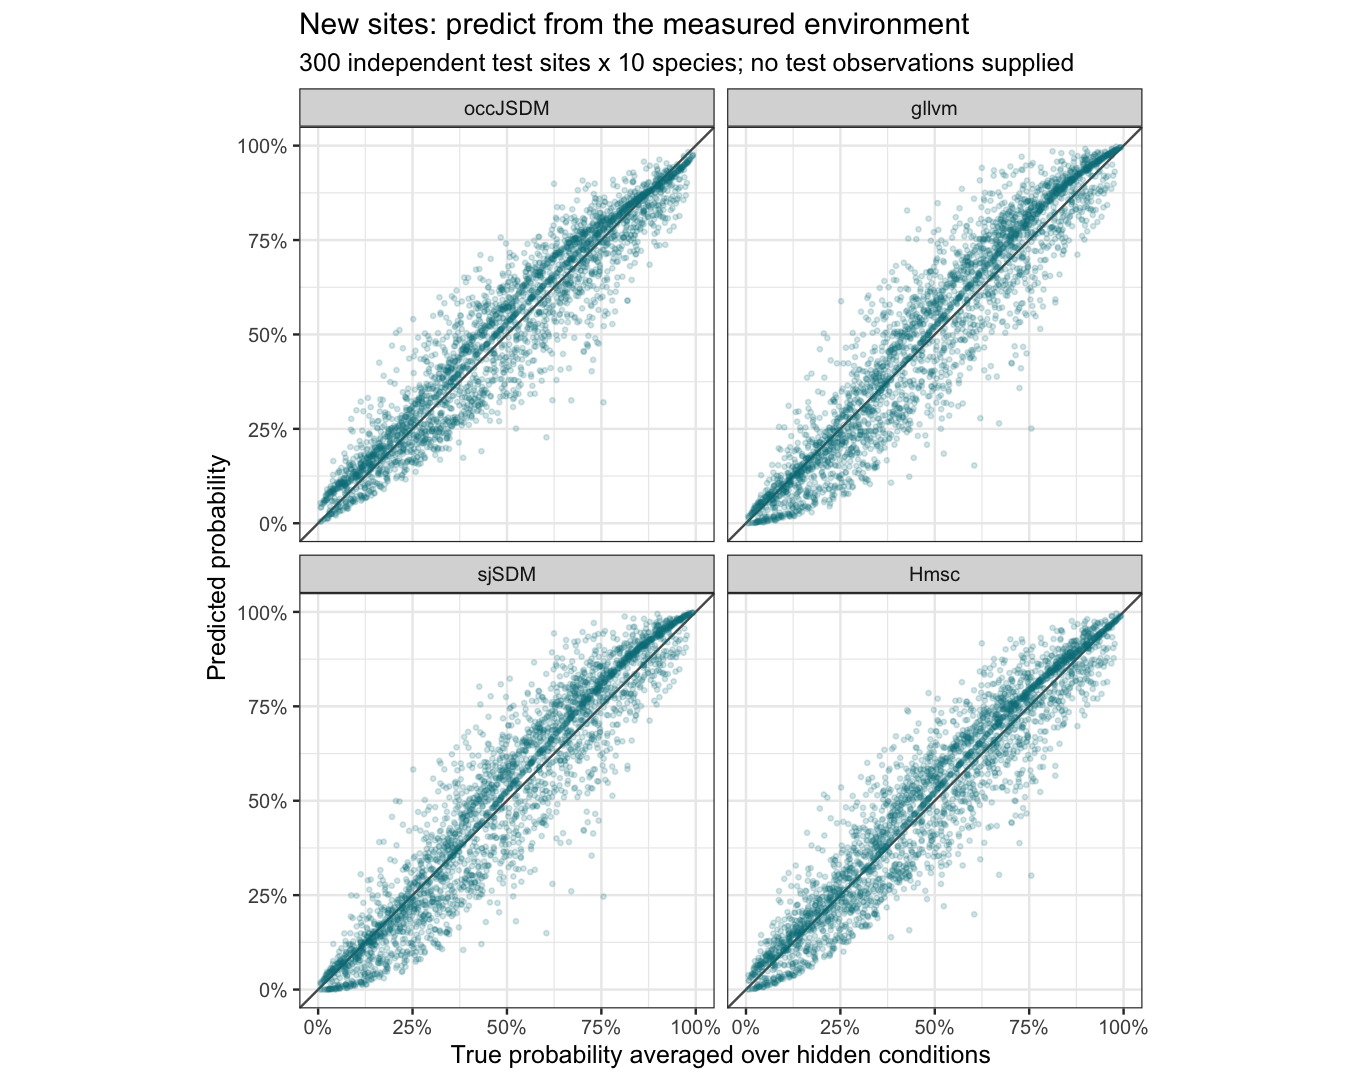
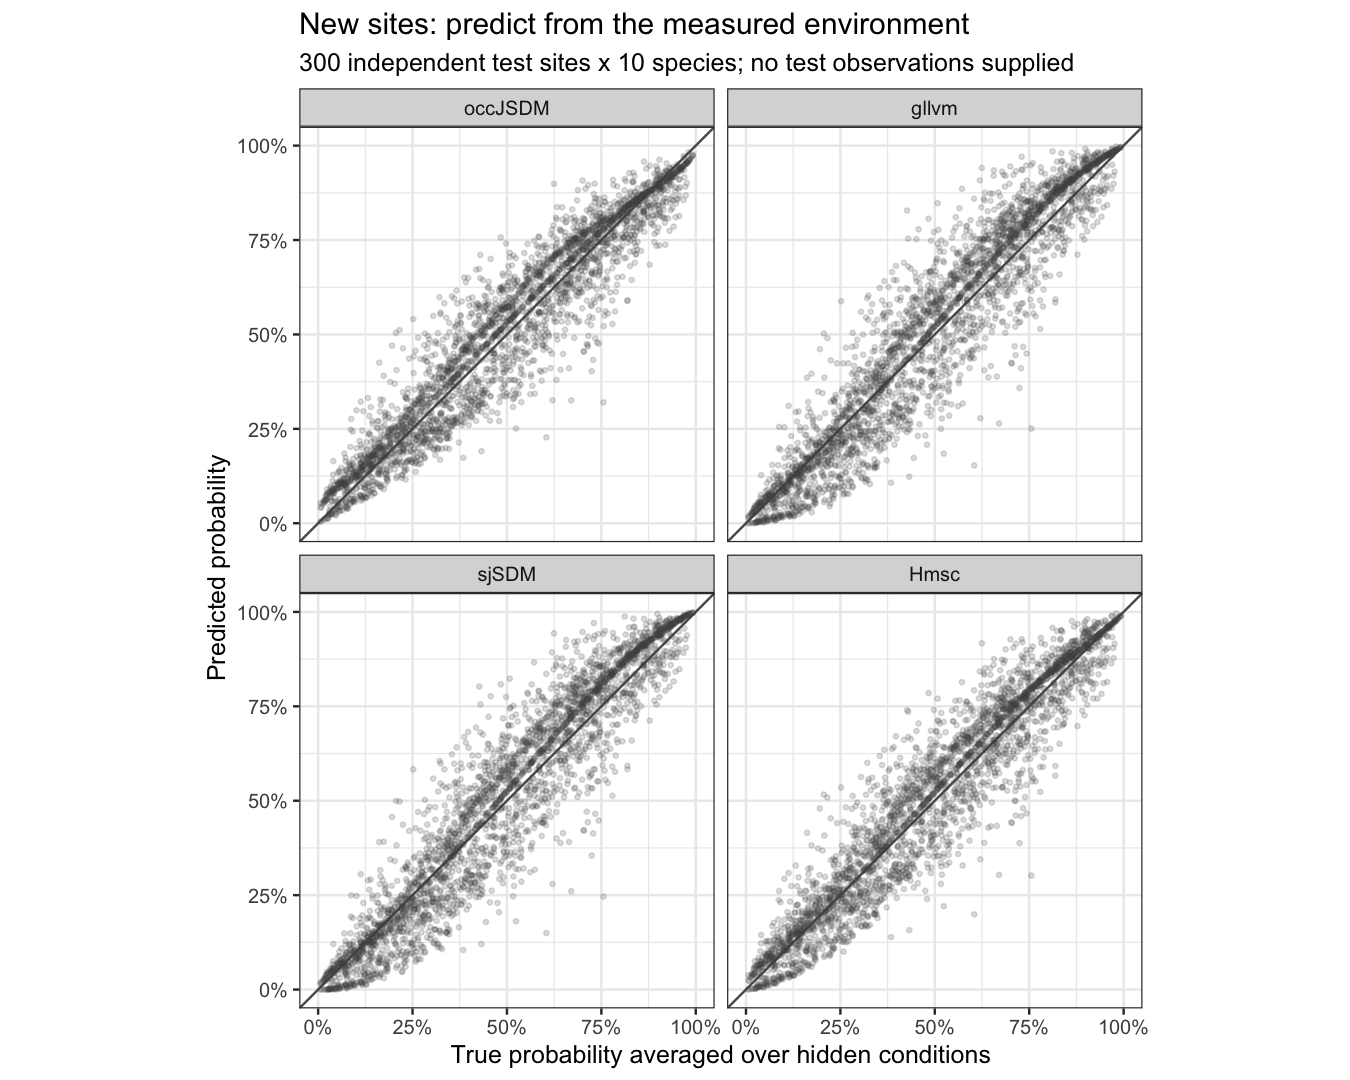
Fix the Task 3 review minors and check that fitting code never calls a plot-only function
Lessons 2 and 6 call #D55E00 "red-orange", as Lesson 3 does; Lesson 6's
trait-figure caption now takes two lines so it is not clipped. Lesson 5
gives gllvm a dot-dash line so no package line resembles the dashed
truth, and draws its two probability scatters in grey30 instead of the
old occJSDM teal. Lesson 6's trait figure lists occJSDM before gllvm.

lesson_source_check() now also fails when any top-level code in R/
outside the allow-listed definitions names an allow-listed function, as
a symbol or a string. Current R/ passes; a new test case covers it.

diff --git a/vignettes/occJSDM-lesson-2.md b/vignettes/occJSDM-lesson-2.md
@@ -617,8 +617,8 @@ ggplot(map_errors, aes(x = east, y = north, colour = error_pp)) +
 ```
 
 <figure>
-<img src="occJSDM-lesson-2_files/figure-gfm/occupancy-error-maps-1.png" alt="Orange points are overestimates and blue points are underestimates. Pale points have small errors. These are errors in the underlying probability, not wrong classifications of the actual 0/1 occupancy state." />
-<figcaption aria-hidden="true">Orange points are overestimates and blue points are underestimates. Pale points have small errors. These are errors in the underlying probability, not wrong classifications of the actual 0/1 occupancy state.</figcaption>
+<img src="occJSDM-lesson-2_files/figure-gfm/occupancy-error-maps-1.png" alt="Red-orange points are overestimates and blue points are underestimates. Pale points have small errors. These are errors in the underlying probability, not wrong classifications of the actual 0/1 occupancy state." />
+<figcaption aria-hidden="true">Red-orange points are overestimates and blue points are underestimates. Pale points have small errors. These are errors in the underlying probability, not wrong classifications of the actual 0/1 occupancy state.</figcaption>
 </figure>
 
 OTU_1 is common, and 81% of its sites are blue: the pull towards the middle again, underestimating its high probabilities. Neither map shows errors gathered in one part of the survey area; large overestimates and underestimates sit next to each other. That is what this simulation should produce, because its environmental values and hidden site factors were generated independently of coordinates. Smoothing these points would invent a surface that this simulation never generated. The spatial lesson, [Lesson 7](occJSDM-lesson-7.md), introduces a smooth habitat gradient and spatial structure.
@@ -667,8 +667,8 @@ ggplot(detection_rates, aes(x = estimate, y = species)) +
 ```
 
 <figure>
-<img src="occJSDM-lesson-2_files/figure-gfm/detection-rate-recovery-1.png" alt="Black crosses are the true rates for positive read results. Orange estimates and 95% credible intervals come from the default two-stage fit. Horizontal scales differ so that small false-positive rates are readable. Laboratory rates differ by primer; field-stage contamination has one rate per species." />
-<figcaption aria-hidden="true">Black crosses are the true rates for positive read results. Orange estimates and 95% credible intervals come from the default two-stage fit. Horizontal scales differ so that small false-positive rates are readable. Laboratory rates differ by primer; field-stage contamination has one rate per species.</figcaption>
+<img src="occJSDM-lesson-2_files/figure-gfm/detection-rate-recovery-1.png" alt="Black crosses are the true rates for positive read results. Red-orange estimates and 95% credible intervals come from the default two-stage fit. Horizontal scales differ so that small false-positive rates are readable. Laboratory rates differ by primer; field-stage contamination has one rate per species." />
+<figcaption aria-hidden="true">Black crosses are the true rates for positive read results. Red-orange estimates and 95% credible intervals come from the default two-stage fit. Horizontal scales differ so that small false-positive rates are readable. Laboratory rates differ by primer; field-stage contamination has one rate per species.</figcaption>
 </figure>
 
 The laboratory rates are recovered well: 37 of the 40 intervals for `p` and `q` contain the true value. The intervals are comparatively narrow, none wider than 79% of its estimate, because every sample’s twelve PCRs give the model many repeated laboratory results to learn from. The field-contamination rate is harder: 9 of its 10 intervals contain the true value, but they are wide, from 87% to 329% of the estimate and reaching up to 19.4%. They are wide because field-stage contamination happens only at unoccupied sites, and a contaminated sample looks like any other sample with DNA.

diff --git a/vignettes/occJSDM-lesson-6.md b/vignettes/occJSDM-lesson-6.md
@@ -514,7 +514,7 @@ Supplying traits lowered the average error a little, by at most 0.5 percentage p
 
 Improved prediction and clear evidence of a trait relationship are different outcomes. A model can predict reasonably while remaining uncertain about why species differ. Conversely, a detectable trait relationship need not greatly improve predictions when each species already has plenty of observations.
 
-The next figure subtracts the known true trait effect from each estimate. The dashed black line therefore means **accurate estimation**, not necessarily **no trait effect**. The dotted red line means an estimated effect of zero. For the irrelevant trait, those references coincide because its true effect is zero. An interval crossing the black line includes the truth; an interval crossing the red line includes no effect. These are different questions for a trait whose generating effect is nonzero.
+The next figure subtracts the known true trait effect from each estimate. The dashed black line therefore means **accurate estimation**, not necessarily **no trait effect**. The dotted red-orange line means an estimated effect of zero. For the irrelevant trait, those references coincide because its true effect is zero. An interval crossing the black line includes the truth; an interval crossing the red-orange line includes no effect. These are different questions for a trait whose generating effect is nonzero.
 
 ``` r
 if (nrow(extension$traits) > 0) {
@@ -544,13 +544,13 @@ if (nrow(extension$traits) > 0) {
       position = position_dodge(width = 0.5)
     ) +
     facet_grid(relationship ~ design, scales = "free_y") +
-    scale_colour_manual(values = package_colours) +
-    scale_shape_manual(values = package_shapes) +
+    scale_colour_manual(values = package_colours, breaks = package_order) +
+    scale_shape_manual(values = package_shapes, breaks = package_order) +
     labs(
       x = "Independent simulated community",
       y = "Estimated trait effect minus its true value",
       colour = "Package", shape = "Package",
-      caption = "Dashed black: estimate equals truth. Dotted red: estimated effect is zero. Coefficient differences are not probability percentage points."
+      caption = "Dashed black: estimate equals truth. Dotted red-orange: estimated effect is zero.\nCoefficient differences are not probability percentage points."
     ) +
     theme_bw()
 }

diff --git a/vignettes/occJSDM-lesson-5.md b/vignettes/occJSDM-lesson-5.md
@@ -51,7 +51,7 @@ package_colours <- c(
 )
 # A second cue beside colour where packages share one panel.
 package_shapes <- c(occJSDM = 16, gllvm = 17, sjSDM = 15, Hmsc = 18)
-package_linetypes <- c(occJSDM = "solid", gllvm = "longdash", sjSDM = "dotdash", Hmsc = "dotted")
+package_linetypes <- c(occJSDM = "solid", gllvm = "dotdash", sjSDM = "twodash", Hmsc = "dotted")
 
 target_labels <- c(
   sampled_site_recovery = "Reconstruct sampled sites",
@@ -523,7 +523,7 @@ new_site_predictions <- predictions |>
 
 ggplot(new_site_predictions, aes(truth, estimate)) +
   geom_abline(slope = 1, intercept = 0, colour = "grey35") +
-  geom_point(alpha = 0.18, size = 0.8, colour = "#007A87") +
+  geom_point(alpha = 0.18, size = 0.8, colour = "grey30") +
   facet_wrap(~ package, ncol = 2,
              labeller = as_labeller(setNames(package_labels, package_order))) +
   scale_x_continuous(limits = c(0, 1), labels = scales::label_percent()) +
@@ -545,7 +545,7 @@ sampled_site_predictions <- predictions |>
 
 ggplot(sampled_site_predictions, aes(truth, estimate)) +
   geom_abline(slope = 1, intercept = 0, colour = "grey35") +
-  geom_point(alpha = 0.22, size = 0.8, colour = "#007A87") +
+  geom_point(alpha = 0.22, size = 0.8, colour = "grey30") +
   facet_wrap(~ package, ncol = 2,
              labeller = as_labeller(setNames(package_labels, package_order))) +
   scale_x_continuous(limits = c(0, 1), labels = scales::label_percent()) +
